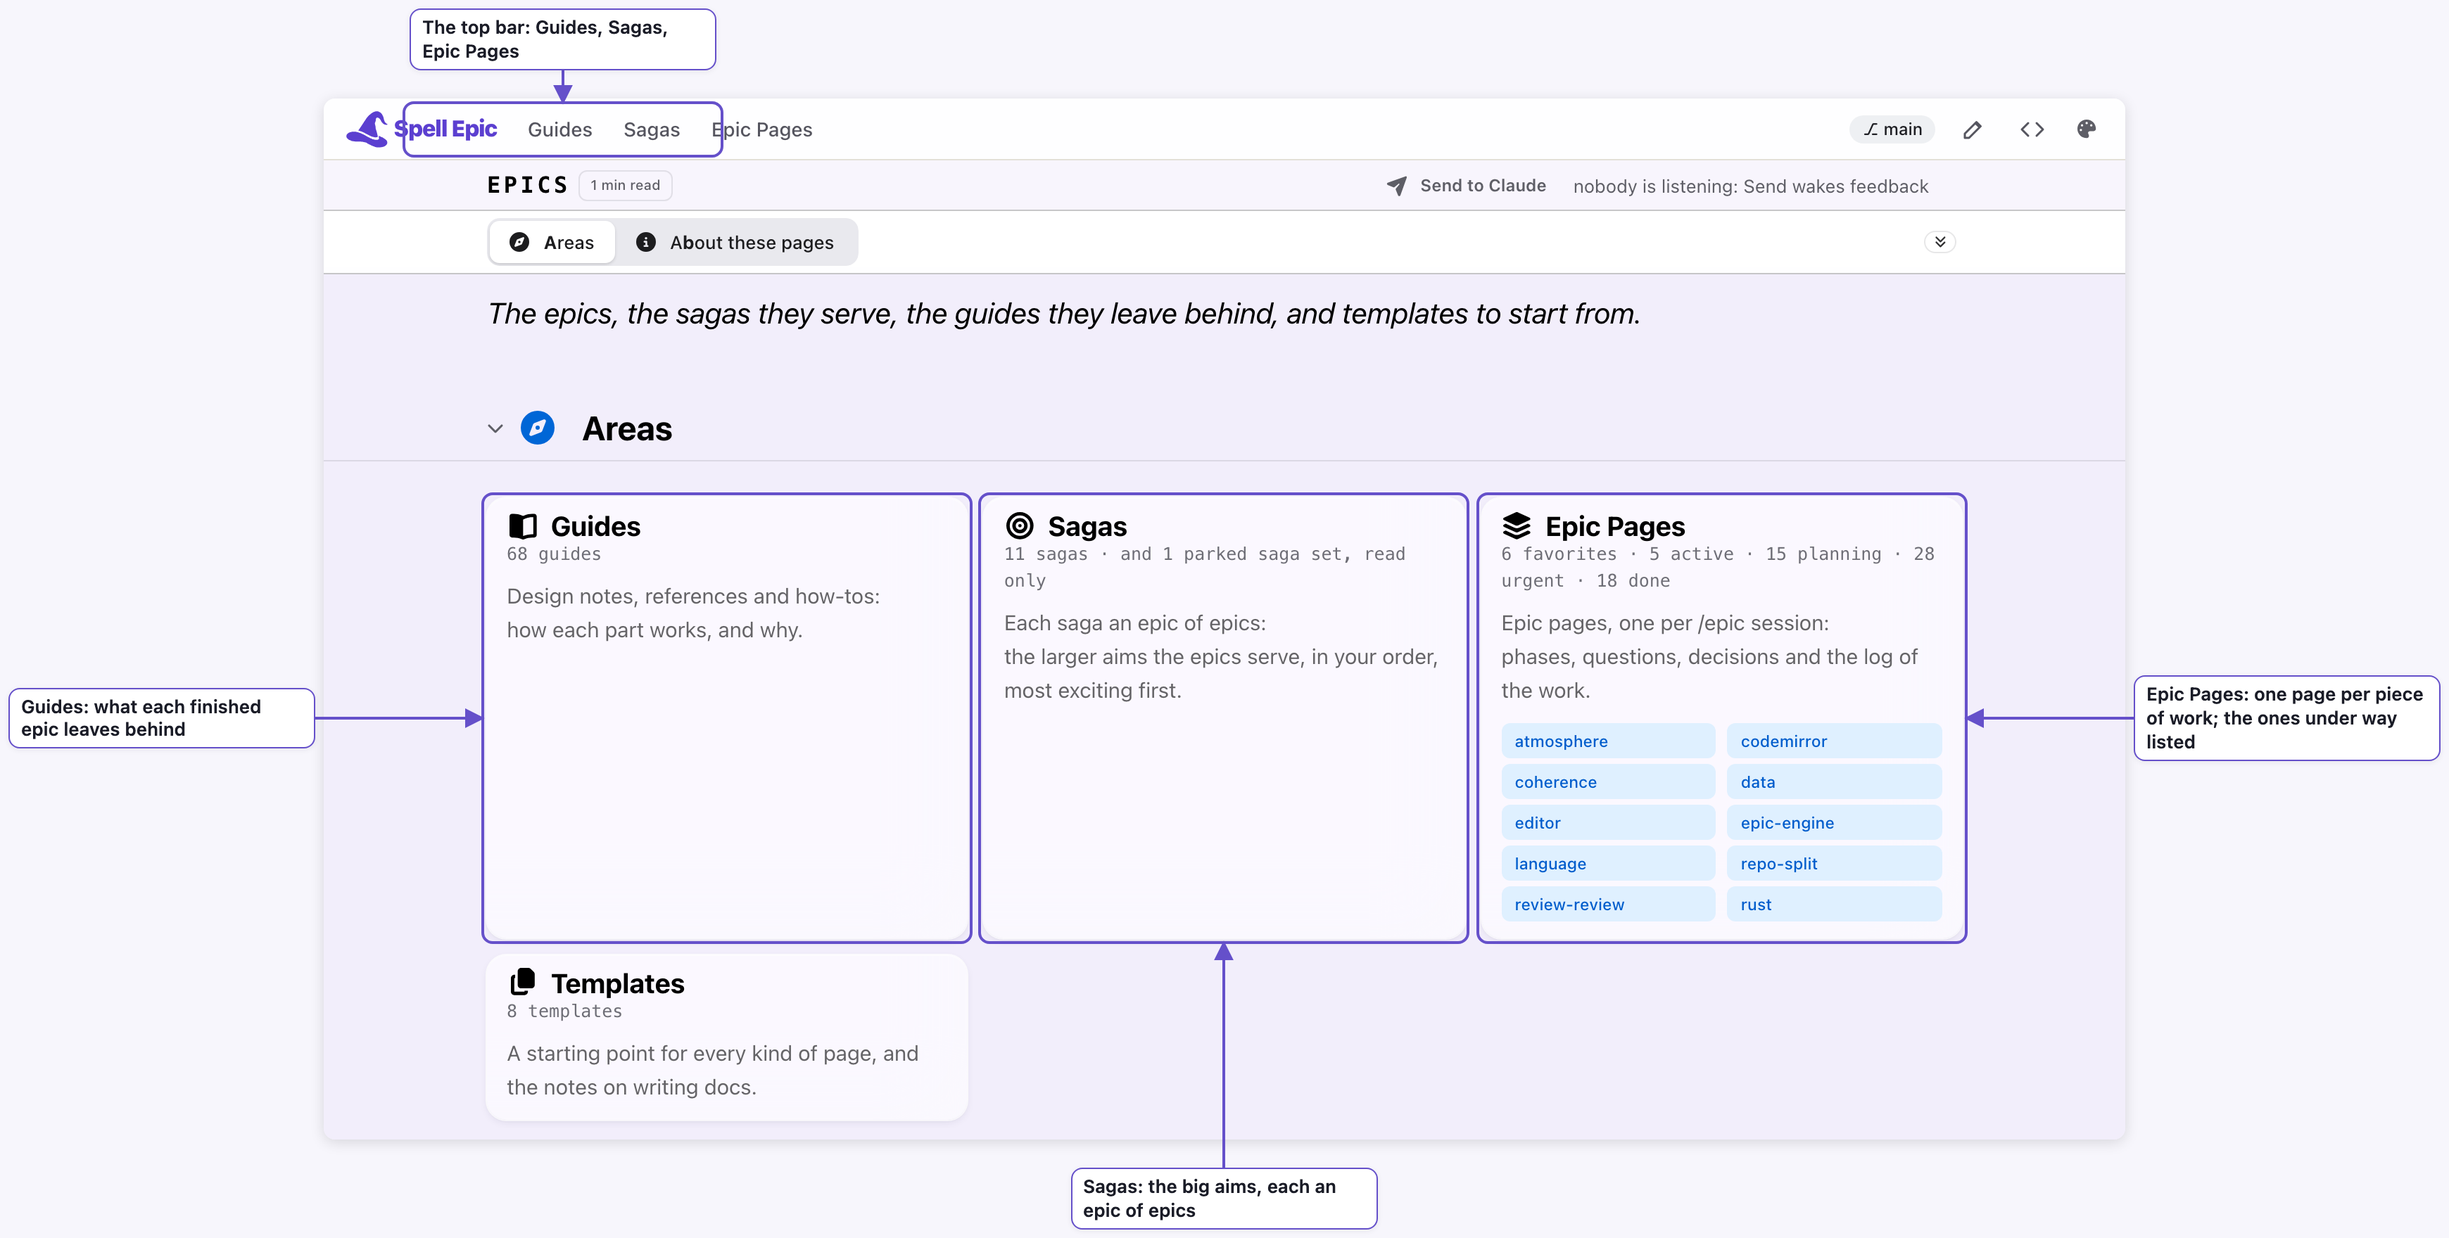
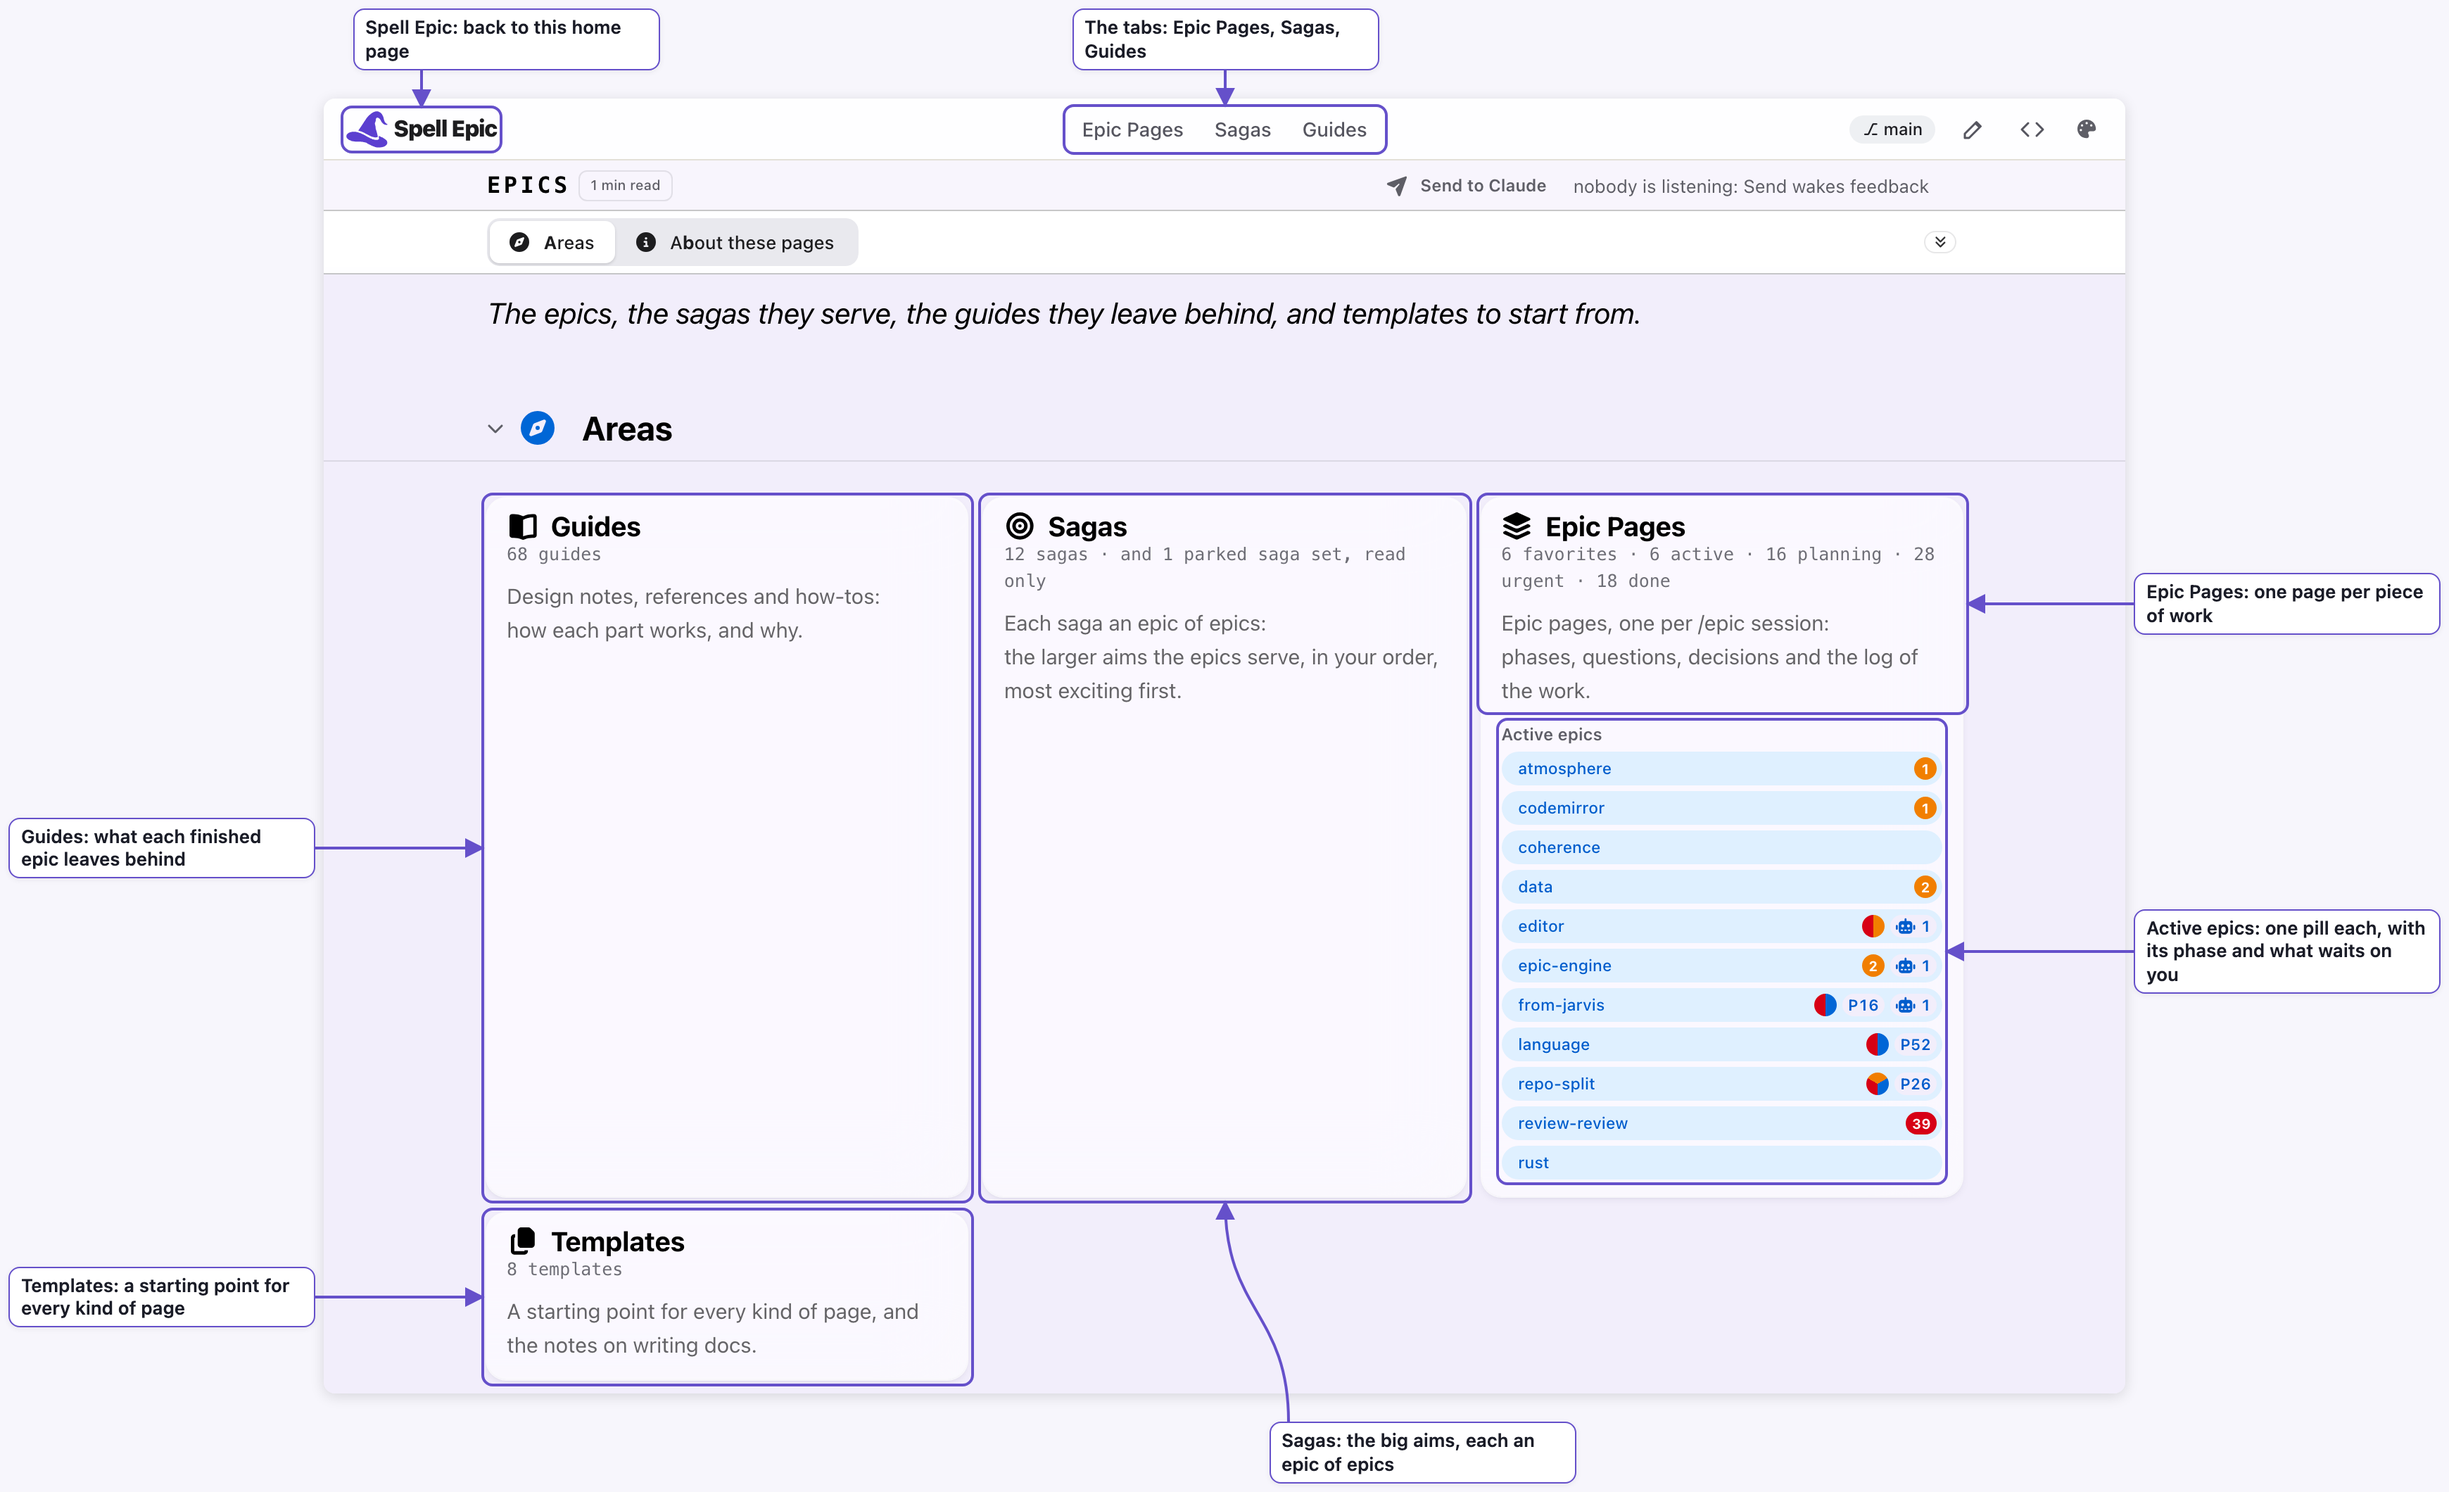
epic-engine:  README's Try it for your own repo;  How epics work's home picture retaken

diff --git a/epic/README.md b/epic/README.md
@@ -14,7 +14,7 @@ and you review it on the page itself, in VS Code, while it works.
   It's a Claude Code plugin first;  Codex runs seventeen of its twenty-two skills and its end-of-turn hooks from the same
   files, not yet tried with a real Codex (below, "Coming").
 
-Here to run one?  [Skip to "Try it"](#try-it--a-small-epic-start-to-finish).
+Here to run one?  [Skip to "Try it"](#try-it--a-small-epic-in-your-own-repo).
 
 ## An epic's life
 
@@ -149,39 +149,68 @@ So three can run at once without touching each other, and your main checkout isn
 
 Every worktree is another checkout, with an install of its own:  that's the price of three at once.
 
-## Try it:  a small epic, start to finish
+## Try it:  a small epic in your own repo
 
-You need, once:
-- a Spell checkout ([setup from zero](https://github.com/spell-app/spell/blob/main/README.md#setup-from-zero), on the kit's front page)
-- the plugin, and `epic` on your terminal's `PATH`:  one command from the kit's checkout,
-  `node epic/bin/epic plugin install`
-  ([the kit's agents page](https://github.com/spell-app/spell/blob/main/README/agents.md#the-epic-plugin) says
-  what it does)
-  - in a repo of your own:  `epic init` does this too ([README-epics.md](https://github.com/spell-app/spell/blob/main/README-epics.md))
-- Spell Epic, the VS Code extension, for the Review tab ([README-vscode.md](README-vscode.md))
-- an epic folder for the pages:  a new machine has none, and `epic init` at the kit's root makes an empty one,
-  keeping the kit's settings as they are
+You need a git repo with at least one commit, Claude Code, and VS Code.
+One command, from any folder of the repo, sets it up:
 
-Then open the kit's folder in VS Code, start a Claude Code session, and give it a job nothing depends on.
-`spell pony` draws a pony in a wizard hat, saying your words, and keeps a long saying on one line:
-
-```text
-/epic hello-epic let spell pony wrap a long saying over several lines
+```sh
+cd ~/www/my-app
+npx spell@next epic init
 ```
 
-1. The session is titled `🚧 hello-epic` before the agent reads a word:  the prompt hook does it.
-2. The agent asks two things in Claude Code's question modal:
-   where to run, a new window or this one (with a recommendation);  and which saga the epic serves, if any.
-3. It makes the worktree, `~/www/spell.worktrees/hello-epic`, the whole kit on branch `hello-epic`,
-   and writes the epic page with your prompt quoted at the top.
-4. Picked a new window?  When its turn ends, the session moves to `⎇ hello-epic` and types `continue` there:
-   press Enter.
-5. The page opens in the Review tab, and fills while the agent explores, read-only, and drafts its plan.
+It installs the plugin, the `epic` command and the VS Code extension, asks your name and colour,
+and makes an epic repo beside yours for the pages.
+Every question, flag and edge:  [README-setup.md](README-setup.md).
 
-- `/epics` lists every open epic;  `/wtf` says where this one stands.
-- Done with it?  `/epic done` offers to merge it into `main`, or to leave it unmerged;
-  then `epic worktree remove hello-epic` takes the worktree away, and the page stays, as the record.
-- **Not yet:**  these steps walked end to end on a machine that's never had the plugin.
+Then start a Claude Code session in your repo, and give it a job nothing depends on:
+
+```text
+/epic hello-epic add a --version flag to the command line
+```
+
+1. The session titles itself `🚧 hello-epic`, and makes the epic's worktree, `~/www/my-app.worktrees/hello-epic`,
+   on a branch of the same name.
+2. The epic page opens in VS Code's Review tab, your prompt quoted at the top,
+   and fills while the agent reads your code, read-only.
+3. Its Overview says what it understood, with the questions it couldn't settle:
+   answer on the page, or in the chat.
+4. Press **Accept Overview**.
+   It writes the phases, each with a build plan;  **Accept Phases** agrees them all, and it builds,
+   a phase per commit, without stopping.
+5. `/epic done` merges the branch, or opens a pull request.
+   The worktree goes;  the page stays, as the record.
+
+What each button does, and the page's parts:  [README-how-it-works.md](README-how-it-works.md).
+
+From a terminal, `epic list` lists every epic once, with how many of its items you haven't reviewed:
+
+```sh
+epic list
+```
+
+<details>
+<summary>What it printed</summary>
+
+```text
+in progress:  (not reviewed / items)
+  data                     340 / 700  (../spell.worktrees/data)
+  epic-engine              331 / 871  (../spell.worktrees/epic-engine)
+  ...
+future:  (not reviewed / items)
+  epic-linux                 3 / 3
+  ...
+```
+
+</details>
+
+_On Spell's own repo, which runs a dozen at once._
+
+**Not yet:**  `epic init` has run end to end only in throwaway repos outside Spell.
+Its rough edges:  [what's still Spell-shaped](README-config.md#whats-still-spell-shaped).
+
+Working on Spell itself?  The kit's checkout runs `node epic/bin/epic plugin install` instead:
+[the kit's agents page](https://github.com/spell-app/spell/blob/main/README/agents.md#the-epic-plugin).
 
 ---
 

diff --git a/epic/README-how-it-works.md b/epic/README-how-it-works.md
@@ -1,10 +1,12 @@
 # How epics work:  sagas, epics, guides
 
-![The docs' home page in a browser.  The top bar's three tabs, Guides, Sagas and Epic Pages, are outlined, and so
-are three cards under them:  Guides, "what each finished epic leaves behind";  Sagas, "the big aims, each an epic of
-epics";  Epic Pages, "one page per piece of work", with the epics under way listed in it.](docs/images/how-home.png)
+![The home page of the epic pages in a browser.  The top bar is outlined:  the wizard hat and "Spell Epic" at the
+left, and the tabs Epic Pages, Sagas and Guides in its centre.  So are the four cards under it:  Guides, "what each
+finished epic leaves behind";  Sagas, "the big aims, each an epic of epics";  Epic Pages, "one page per piece of
+work", with its Active epics, one pill per epic showing its phase and what waits on you;  and Templates, "a starting
+point for every kind of page".](docs/images/how-home.png)
 
-_The home page of the pages `epic init` sets up:  three kinds of page, one tab each._
+_The home page `epic init` sets up:  three tabs, and a card each for guides, sagas, epic pages and templates._
 
 Not set up yet?  One command does it:  [Try it](https://github.com/spell-app/spell/blob/main/README-epics.md#try-it).
 This page is the map once you have.
